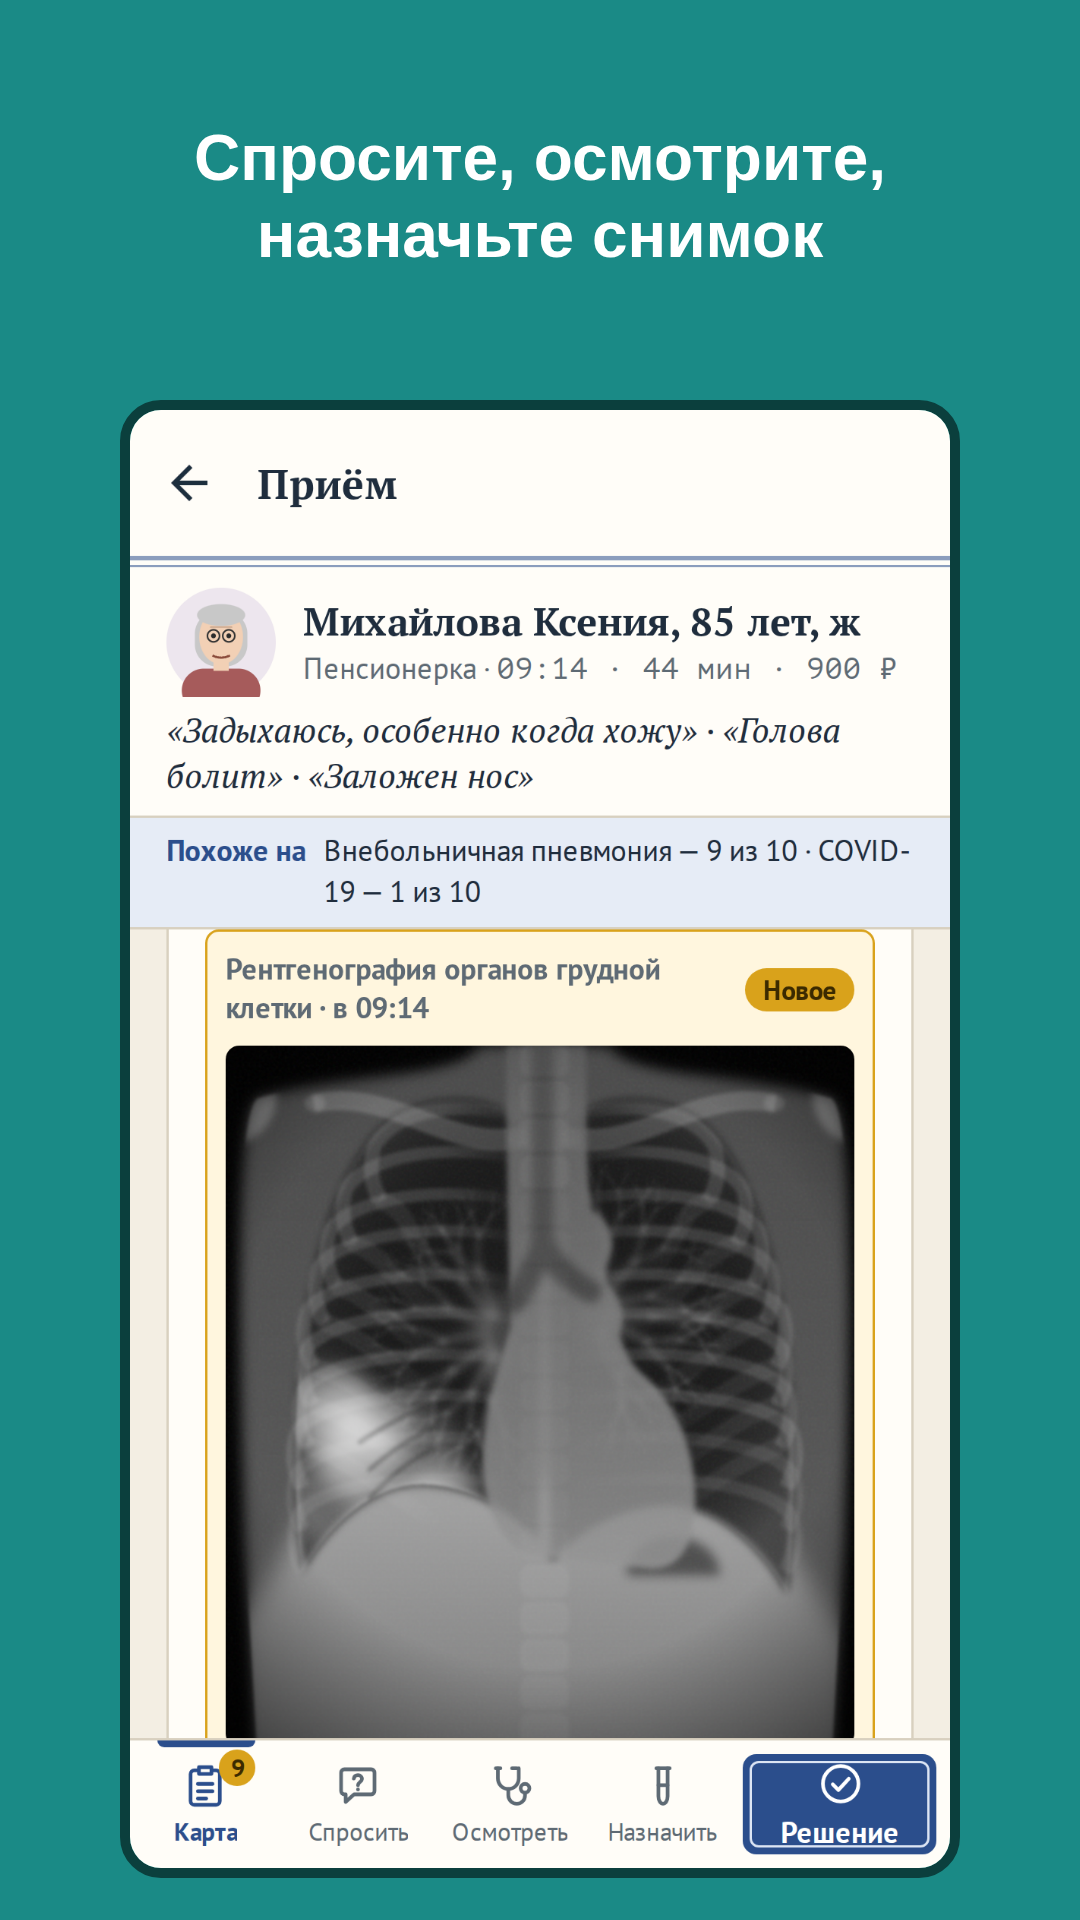
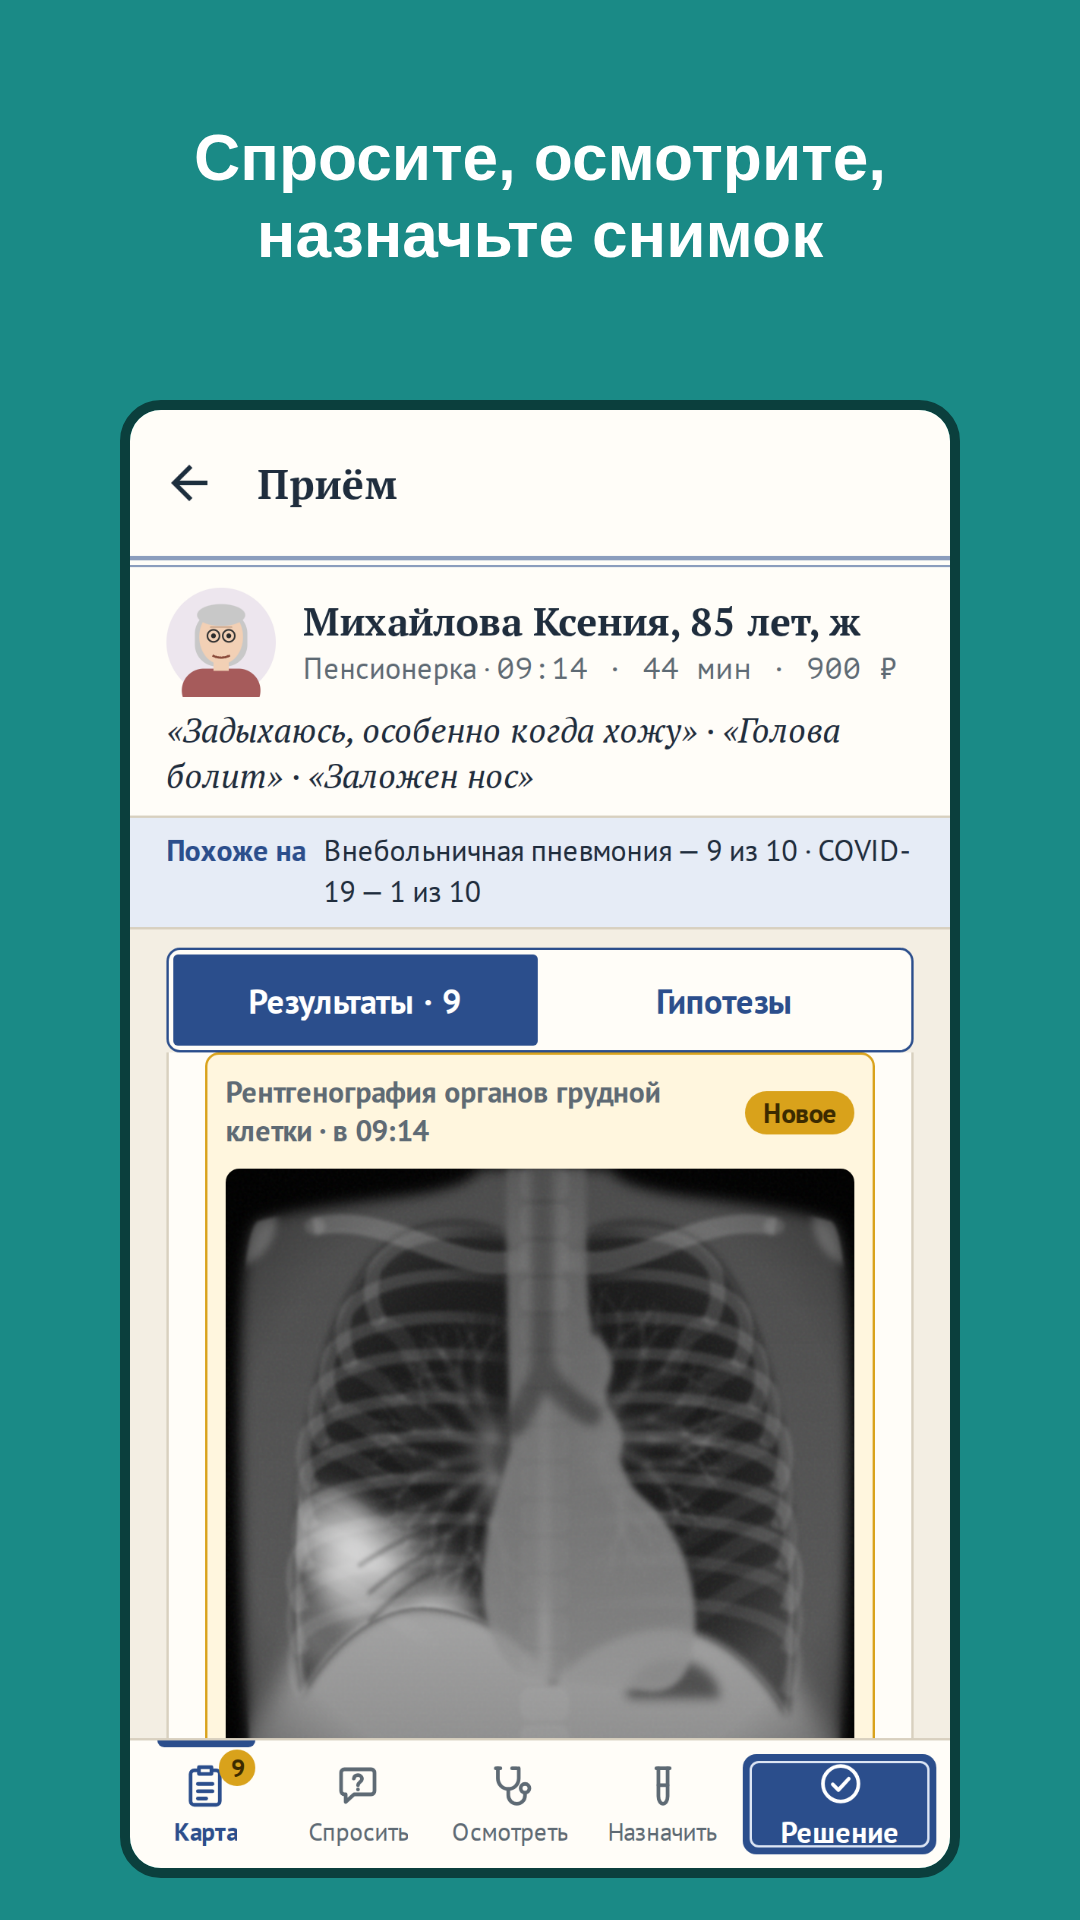
Снимки магазина и сайта — по 0.6.7: на приёме «Результаты» и «Гипотезы»
Пункт 64: `npm run store` на нынешней игре. Изменились пять снимков приёма и смены — на «Карте» переключатель
«Результаты» и «Гипотезы» (0.6.5), — обложка с двумя экранами и обложка страницы сайта; снимки плана, итога и стройки,
графика 1024 × 500 и иконки — те же. Просмотрены глазами: подписи не закрывают интерфейс, отладочного на экранах нет.
Дорожная карта (пункт 64), журнал.

Claude-Session: https://claude.ai/code/session_01L25NsoAfKYPftpG2eaN9Vv

Changed region(s): [[0.1528, 0.4688, 0.825, 0.9062]]

diff --git a/docs/journal/2026-10.md b/docs/journal/2026-10.md
@@ -86,6 +86,7 @@
 | 2026-10-17 | 0.6.5 «Бейдж врача и доска гипотез» — пункты 84 и 85, ответы владельца на вопросы 47 и 46 ([`specs/2026-10-menu-board.md`](../specs/2026-10-menu-board.md)). Вопрос 47 (Nefeste/anamnez#150) — «Вариант А Бейдж врача, и найти удачное место куда можно вынести Случай дня, чтобы не искать его в подменю»: под названием — бейдж врача: портрет в халате со стетоскопом (тот же портрет с формой врача, что у нанятых), имя, звание, принято и доля верных; в «Медкарте» — карточка с прорезью и личной печатью, в «Мониторе» — цифры цветов монитора; касание — профиль. «Случай дня» — листком календаря с сегодняшним числом перед «Продолжить», под большим пальцем: случай дня — дело на сегодня, ему место рядом с главной кнопкой, а не среди разделов; из «Быстрой игры» ушёл. Вопрос 46 (Nefeste/anamnez#148) — вариант 1: «Карта» из двух частей с переключателем сверху, «Результаты» и «Гипотезы», у каждой свой лист; «Подождать» с «Гипотез» — к результатам. Ответы пришли в 09:41–09:43, до PR 0.6.3 (Nefeste/anamnez#151, 10:16), но в нём вопросы ещё значились ждущими: перед PR я не перечитал Issues — теперь перечитываю. Тогда же, в 09:43, пришёл ответ на вопрос 18 (Nefeste/anamnez#110) — «вариант 3»: звуки под CC-BY с указанием автора в «Лицензиях»; его я нашёл, только перечитав Issues перед этим PR. В 0.6.5 он — в документах: вопрос — в решённых, голоса и телефон в фоне амбулатории — пункт 86, следующим релизом. Номер — 0.6.5: 0.6.4 занял Nefeste/anamnez#152 («Фибрилляция после полуночи»), его конфликт версий с 0.6.3 я разрешил по просьбе владельца. Проверки: типы и линтер — без ошибок; все тесты — 1878 из 1879: тест лицензий вышел за предел 5 с на холодном диске (11,7 с) и отдельно прошёл. Сценарий в браузере нашёл семь провалов: ошибку в консоли — портрет на бейдже, нарисованный один раз (`still`), перерисовывался в скрытом меню нулевой ширины, теперь он обычный, как в профиле; проверки, что искали правила ABCD2, CHA₂DS₂-VASc и sPESI в журнале, — они теперь на «Гипотезах»; имя врача у пункта «Профиль» — оно на бейдже. После правки — 407 проверок, всё прошло. После переноса на `main` с 0.6.4 — тесты версии, документов, магазина, случая дня, настроек, темы, `rsc` и лицензий — 85 из 85; весь набор — в CI. Движок, база и симуляторы не менялись — симуляторы не гонялись. |
 | 2026-10-17 | 0.6.6 «Голоса и телефон регистратуры» — пункт 86, ответ владельца на вопрос 18 (Nefeste/anamnez#110) — «вариант 3»: разрешить CC-BY с указанием автора в «Лицензиях» ([`specs/2026-10-clinic-voices.md`](../specs/2026-10-clinic-voices.md), ADR [0019](../adr/0019-sounds-cc-by.md)). Правило звуков теперь — свои, CC0 или CC BY с названием, автором, ссылкой, тем, что изменено, и текстом лицензии на экране «Лицензии»; CC BY-SA, «некоммерческие» и метка Public Domain Mark у свежих записей — нет; правило ADR 0013 для звуков заменено. Искал на Wikimedia Commons, OpenGameArt и archive.org (Freesound отсюда отвечает 403): голоса в поликлиниках Познани и в зале ожидания вокзала в Саратове — только с меткой Public Domain Mark, это не отказ автора от прав — не взяты. Голоса — очередь записи к врачу в больнице ISSSTE (Леон, Мексика), Ed Visoso, CC BY 3.0; телефон — звонок Automatic Electric 80, Cloud16 Films, CC BY 4.0. Слушать записи я не могу: отрезок голосов (452–494 с) выбран по спектрограммам — без воды из уборной, ударов и тонов уведомлений; за стеной — ниже 200 Гц и выше 1,3 кГц глуше, стуки — вровень с гулом; голоса на 2 дБ тише гула, а гул тише прежнего — вместе они как прежний один гул, и шаги с дверями над ними слышны так же. Звонок собран из начала и конца первого звона записи: на ней звонки американские, 2–3 с, у нас — секунда звона и четыре секунды паузы, три звонка; телефон — отдельный файл, звонит раз в 2–5 минут, пока слышен фон. Первая сборка звонка вышла короче секунды: конец звона я взял по спаду высоких призвуков колокола (3,31 с), а удары бойка кончаются на 3,05 с — поправил. Прежний `clinic.ts` из заново скачанного набора Kenney собрал прежние файлы байт в байт — сборка воспроизводима. Экран «Лицензии» — раздел «Звуки» с текстами CC BY 3.0 и 4.0; тест сверяет его с реестром звуков. Сборка тега v0.6.4 — без APK: шаг «Сценарий» упал в CI на первой минуте; журнал шага и снимки — в артефакте `screens-108`, отсюда его не скачать; тот же код локально — 404 проверки из 404, причина в CI не найдена. 0.6.5 включает 0.6.4, его сборка прошла, APK в выпуске есть. Проверки: типы и линтер — без ошибок; все тесты — 1884 из 1884; сценарий в браузере — 408 проверок, всё прошло (новая — раздел «Звуки» в «Лицензиях»); звуки пересобраны — `ambient.wav` и `phone.wav`, `arrived.wav` прежний. Движок, база и симуляторы не менялись — симуляторы не гонялись. |
 | 2026-10-18 | 0.6.7 «Сборка вместо 0.6.6» — сборки тегов v0.6.4 и v0.6.6 упали на сценарии в браузере, APK у них нет; просьба владельца 18.10.2026: «Нужно исправить сборку и продолжать к 1.0». В записи 0.6.6 я написал, что журнал шага в CI отсюда не достать, — достать можно: сервер GitHub отдаёт его текстом (`get_job_logs`) и ссылку на артефакт со снимками. В обеих сборках шаг упал через минуту: касание строки амоксициллина в листе назначений ждало 30 с, а на снимке в поиске осталось «тромбол». Это место уже роняло сборку v0.6.0; тогда сценарий стал повторять `fill('')`, пока поле не пусто, — не помогло: `fill('')` выделяет текст и жмёт Delete, и на машине сборки стирание до поля доходит не всегда. Здесь не повторяется: 40 раундов шага и 12 холодных запусков с процессором, замедленным вчетверо, — ни разу; с заблокированным нажатием Delete прежняя очистка падает 15 раз из 15. Теперь поле очищается без клавиш, как в тестах React: значение — сеттером прототипа с событием `input`, а очистилось ли — решает игра: полный лист назначений снова на месте (`clearField`); с заблокированным Delete — 15 раундов из 15, без него — 15 из 15. Код игры не менялся; 0.6.7 заменяет 0.6.6, её APK так и не вышел. Проверки: типы инструментов — без ошибок; тесты версии, статуса, ссылок и устава — 17 из 17; сценарий в браузере — 409 проверок, всё прошло (новая — «поиск очищен»). Весь набор тестов — в CI этого PR. |
+| 2026-10-18 | Снимки магазина и сайта — по 0.6.7 (пункт 64): `npm run store` на нынешней игре. Изменились пять снимков приёма и смены — на «Карте» переключатель «Результаты» и «Гипотезы» (0.6.5), — обложка с двумя экранами и обложка страницы сайта (план городской больницы: больные лежат иначе после 0.6.4); снимки плана, итога и стройки, графика 1024 × 500 и иконки — те же. Просмотрены глазами: подписи не закрывают интерфейс, отладочного на экранах нет. Проверки: тест магазина (размеры, тексты, числа базы) — 10 из 10, ссылки в документах — 3 из 3. |
 
 ## Дорожная карта: сделанные части «Пути к 1.0» и решённые вопросы 23 и 5
 
